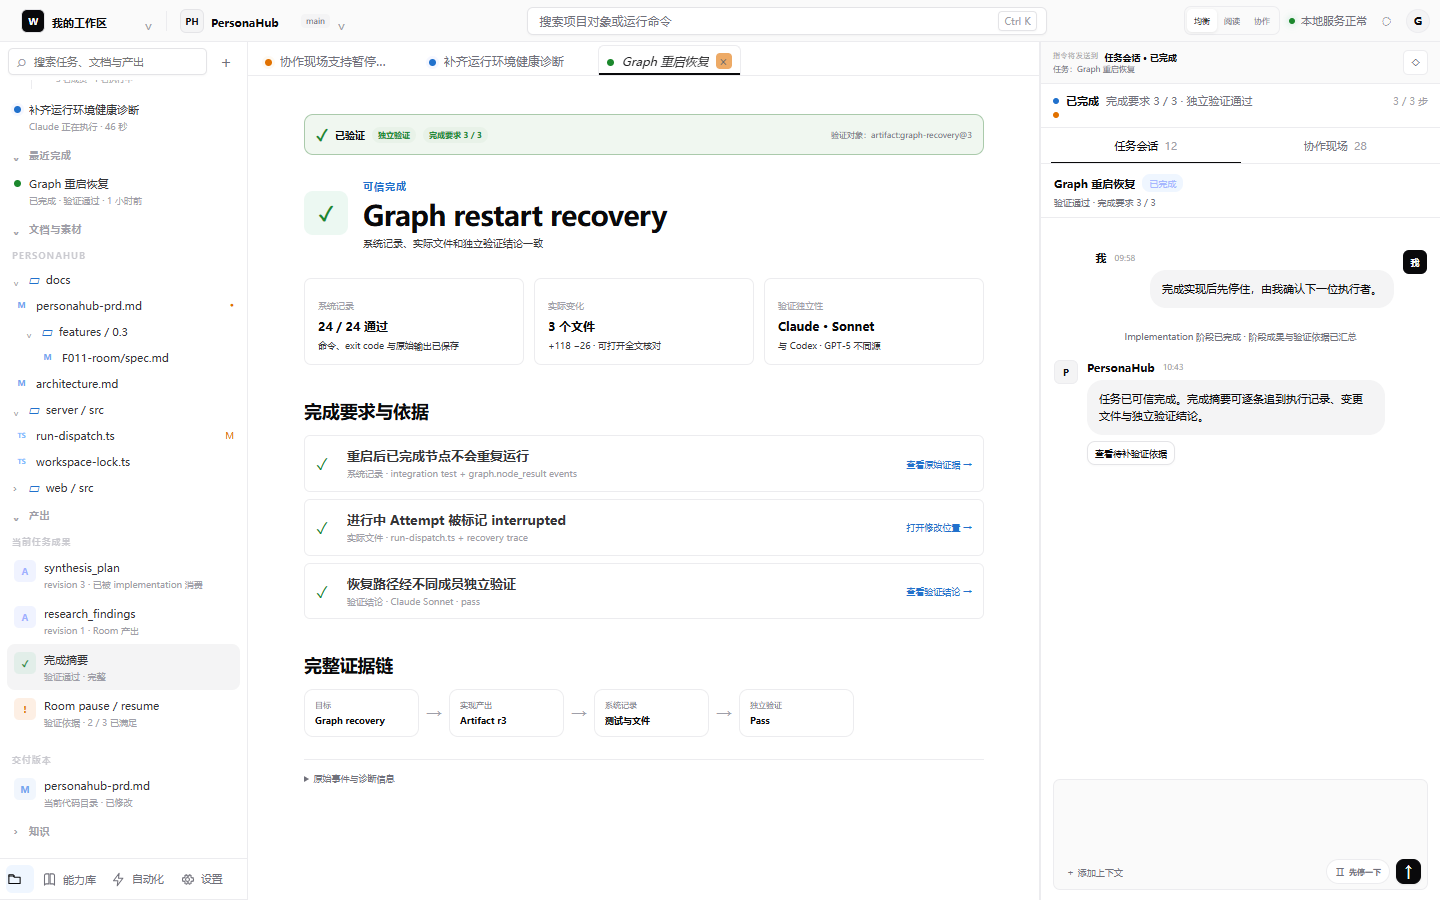
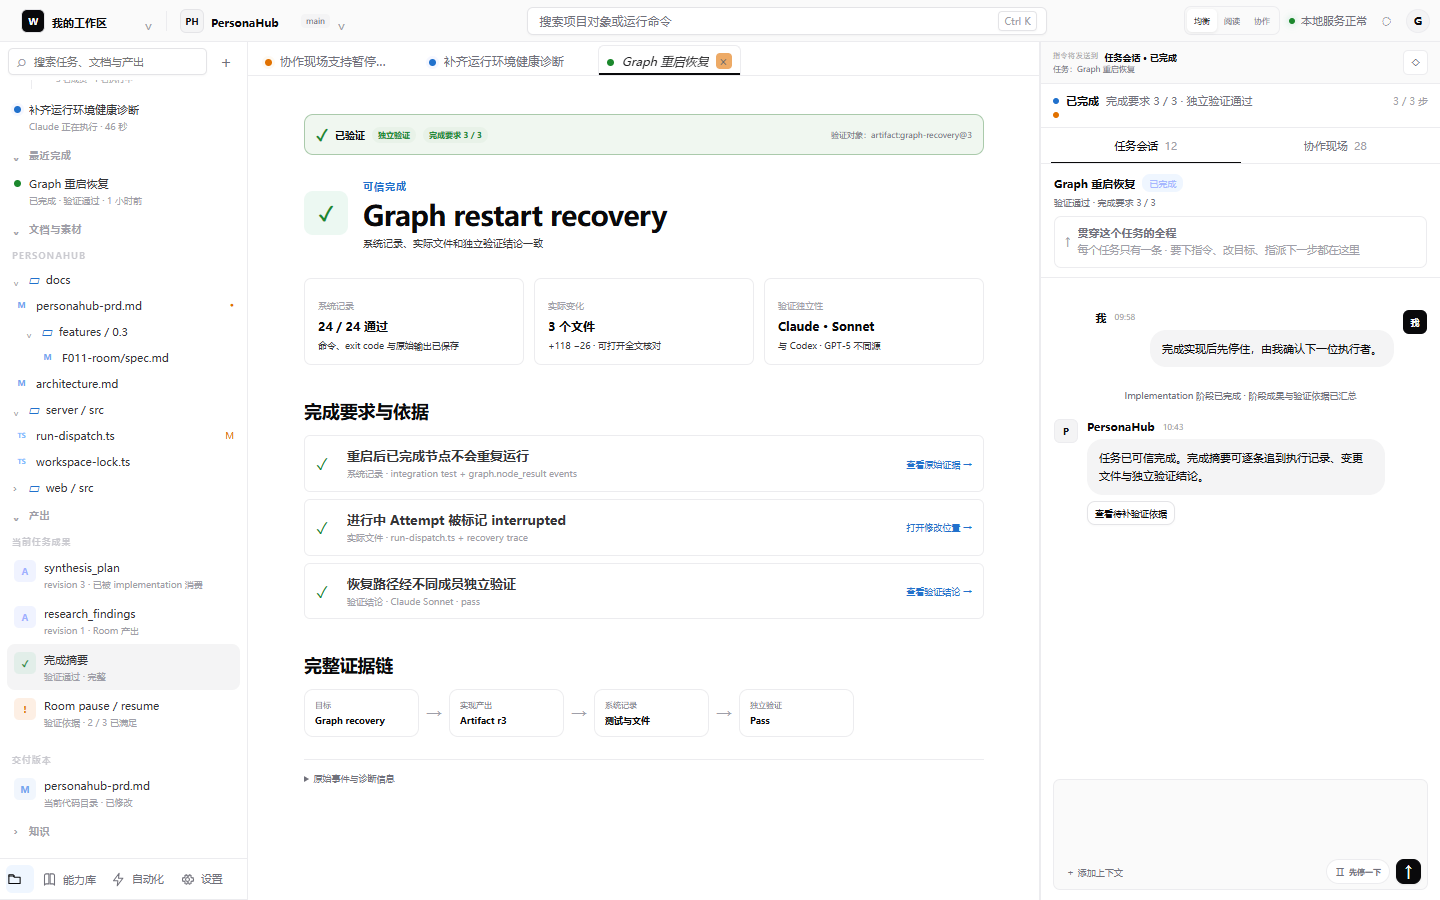
docs(ui): Dock 两个会话各自说明「我是谁的、覆盖多久」
Dock 顶部「任务会话 | 协作现场」并排，看起来像两个聊天窗口，实际是
一条主线加一个阶段的支线。此前区分完全依赖用户已经知道 Thread / Room
模型——设计过程中自己都要回查 PRD 才说得清，用户就一定会问。

- 协作现场面板补来源行：只覆盖哪个阶段、属于哪个任务（可点回成果面）、
  几名成员、阶段结束后归档且记录不删除
- 任务会话面板补对照行：贯穿全程、每个任务只有一条、指令发这里
- 两个 tab 各加 title 悬停说明（§6 边界提前标注）
- design.md 新增 §4.3.2，含两者的五维对照与 Thread.room_id 的数据区别

browser-check 26 条断言全过，零控制台错误。

diff --git a/ui-reference/personahub-draft/personahub-v3.1/index.html b/ui-reference/personahub-draft/personahub-v3.1/index.html
@@ -1153,8 +1153,8 @@ completed -&gt; archived</code></pre>
                 <button type="button" data-room-pause>恢复</button>
               </div>
               <div class="room-tabs" role="tablist" aria-label="协作内容">
-                <button type="button" data-room-tab="primary">任务会话 <span>12</span></button>
-                <button class="active" type="button" data-room-tab="room">协作现场 <span>28</span></button>
+                <button type="button" data-room-tab="primary" title="贯穿任务全程的主控制线，每个任务只有一条。要下指令就在这里。">任务会话 <span>12</span></button>
+                <button class="active" type="button" data-room-tab="room" title="只覆盖任务的一个阶段，有成员名单和交付要求，阶段结束后归档。">协作现场 <span>28</span></button>
               </div>
               <div class="room-body room-conversation" data-room-panel="project">
                 <div class="room-thread-heading">
@@ -1179,6 +1179,13 @@ completed -&gt; archived</code></pre>
                 <div class="room-thread-heading">
                   <div><strong data-primary-title>协作现场支持暂停、纠偏与改派</strong><span class="pill blue" data-primary-status>等待指派</span></div>
                   <small data-primary-summary>任务主会话 · 记录跨阶段决策、交接与验证结论</small>
+                  <div class="room-origin plain">
+                    <span class="ro-mark" aria-hidden="true">&#8593;</span>
+                    <span>
+                      <strong>贯穿这个任务的全程</strong>
+                      <small>每个任务只有一条 · 要下指令、改目标、指派下一步都在这里</small>
+                    </span>
+                  </div>
                 </div>
                 <div class="room-conversation-scroll">
                   <div class="message-stream" data-thread-message-stream>
@@ -1198,6 +1205,13 @@ completed -&gt; archived</code></pre>
                 <div class="room-thread-heading">
                   <div><strong>Implementation 协作现场</strong><span class="pill blue">等待指派</span><span class="live-indicator"><i></i><b data-room-state>活跃</b></span></div>
                   <small>Implementation 完成 · 18/18 tests passed · 等待验证</small>
+                </div>
+                <div class="room-origin">
+                  <span class="ro-mark" aria-hidden="true">&#8627;</span>
+                  <span>
+                    <strong>只覆盖 <em>Implementation</em> 这一个阶段</strong>
+                    <small>属于任务「<button class="linklike" type="button" data-open="issue-view" data-label="任务 · 协作现场人工介入">协作现场支持暂停、纠偏与改派</button>」 · 3 名成员 · 阶段结束后归档，记录不删除</small>
+                  </span>
                 </div>
                 <div class="room-conversation-scroll">
                   <div class="message-stream" data-message-stream>

diff --git a/ui-reference/personahub-draft/personahub-v3.1/assets/v3-layout.css b/ui-reference/personahub-draft/personahub-v3.1/assets/v3-layout.css
@@ -998,3 +998,25 @@
 .permission-scope small { display: block; margin-top: 2px; font-size: 11px; line-height: 1.6; color: var(--muted); }
 .permission-scope code { padding: 1px 4px; border-radius: 3px; background: var(--panel-3); font-size: 10.5px; }
 .scope-source { margin-top: 10px; font-size: 11px; color: var(--faint); }
+
+/* ── 10. 会话来源行 ─────────────────────────────────────────
+   Dock 两个 tab 并排看起来像「两个聊天窗口」，实际是「一条主线 +
+   一个阶段的支线」。这一行把「我是谁的、覆盖多久」说清楚，
+   否则区分完全依赖用户已经知道 Thread / Room 模型（design.md §4.3.2）。 */
+.room-origin {
+  display: grid;
+  grid-template-columns: 16px minmax(0, 1fr);
+  gap: 8px;
+  margin-top: 8px;
+  padding: 8px 10px;
+  border: 1px solid var(--border);
+  border-radius: 7px;
+  background: var(--panel-3);
+}
+
+.room-origin.plain { background: transparent; }
+.room-origin .ro-mark { text-align: center; color: var(--faint); font-size: 11px; line-height: 1.5; }
+.room-origin strong { display: block; font-size: 11px; font-weight: 600; color: var(--muted); }
+.room-origin strong em { font-style: normal; color: var(--text); }
+.room-origin > span > small { display: block; margin-top: 2px; font-size: 10.5px; line-height: 1.6; color: var(--faint); }
+.room-origin .linklike { font-size: 10.5px; }

diff --git a/ui-reference/README.md b/ui-reference/README.md
@@ -9,7 +9,7 @@ PersonaHub 前端设计参考库，随主仓库统一版本管理，但不属于
 - `personahub-draft/personahub-v3.0/`：V3 首版，历史冻结。
 - `personahub-draft/personahub-v3.1/`：**当前设计基线**。在 V3.0 之上恢复任务 tab、把左栏扁平为
   单一可折叠列表，并补齐四个任务态的成果面；设计判断见其 `docs/design.md`，
-  验收入口 `node browser-check.mjs`（25 条断言直接对应设计判断）。
+  验收入口 `node browser-check.mjs`（26 条断言直接对应设计判断）。
   版本索引见 `personahub-draft/VERSIONS.md`。
 - `scripts/`：提取、静态化、交互捕获和自动验收脚本。
 
